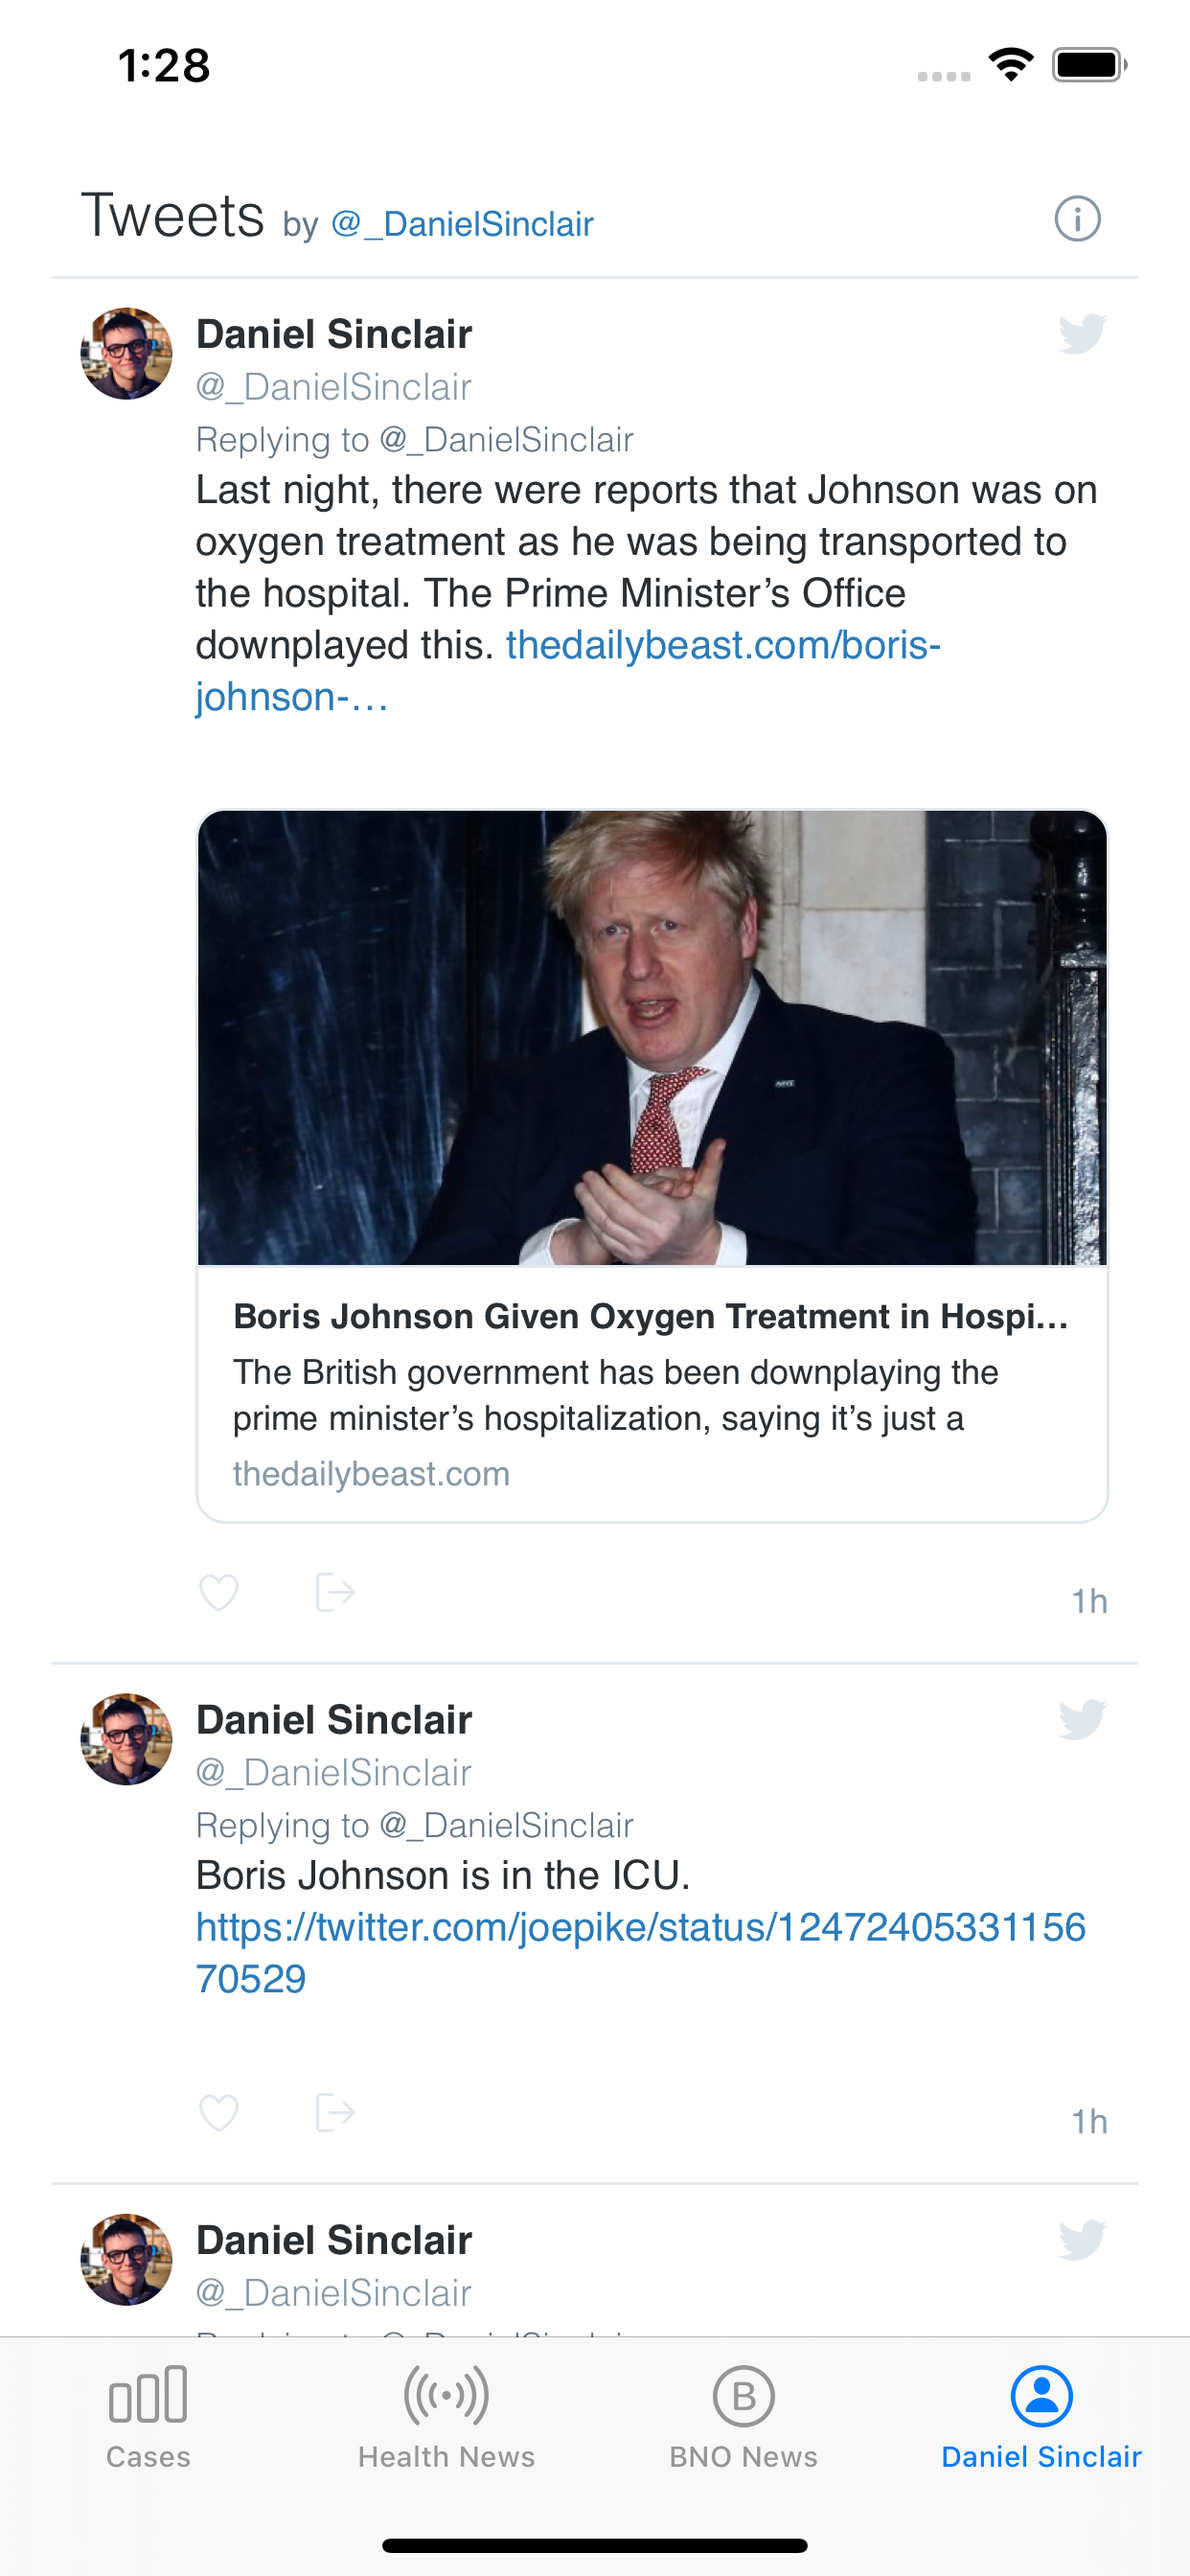
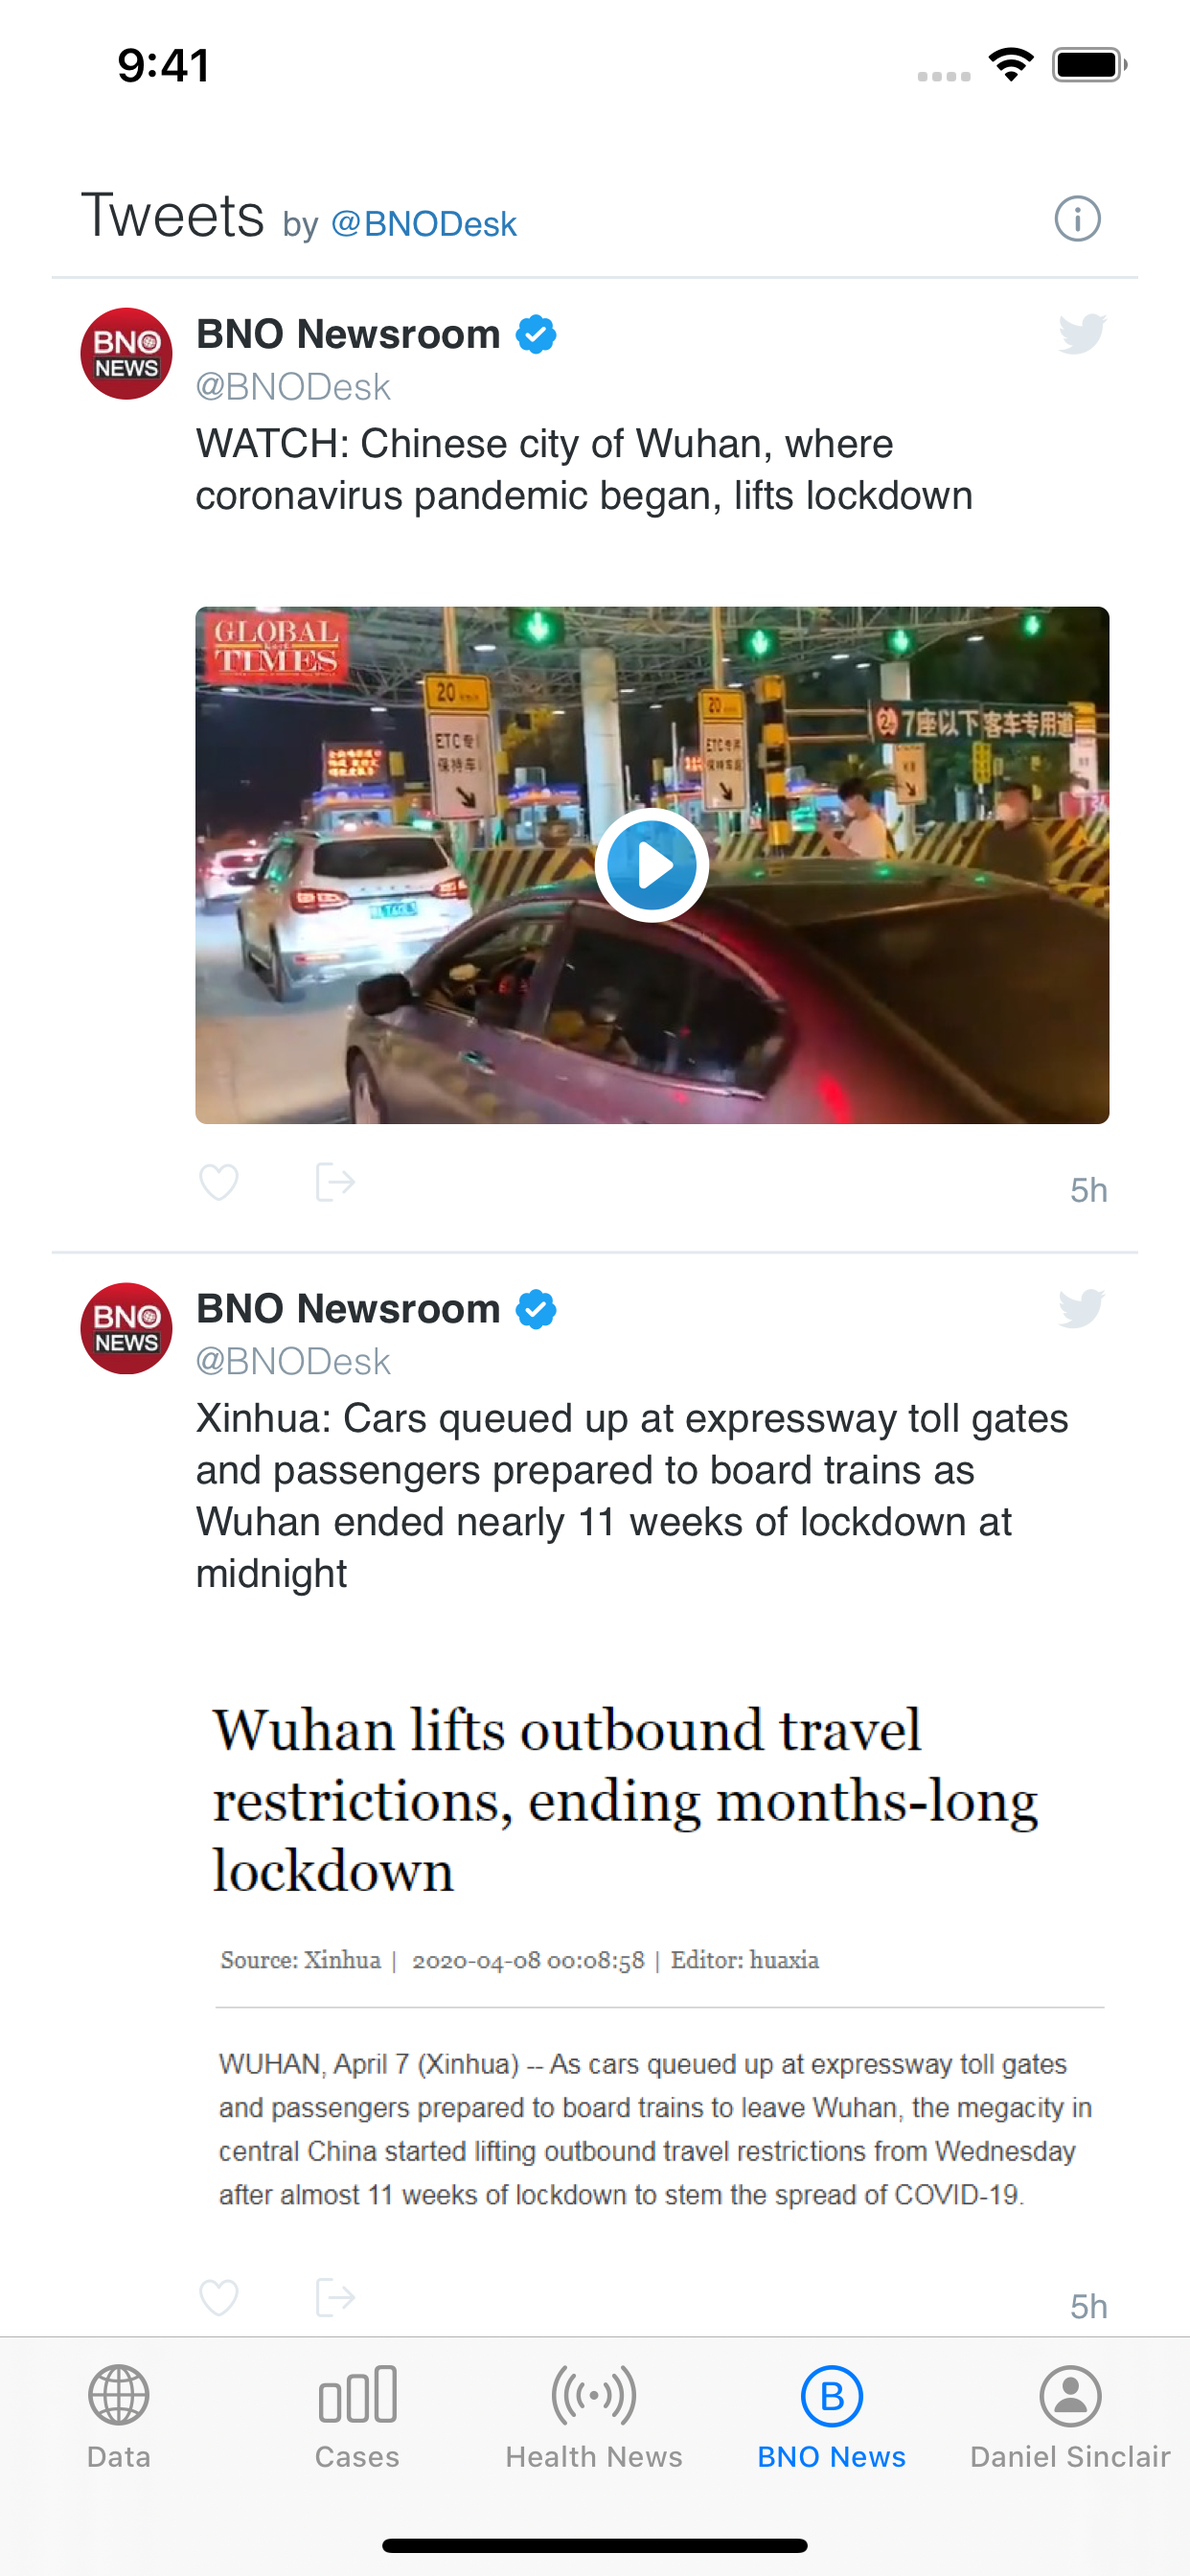
show more data from websites

diff --git a/Xcode/covid19/TweetsViewController.swift b/Xcode/covid19/TweetsViewController.swift
@@ -10,13 +10,20 @@ import UIKit
 import WebKit
 import SafariServices
 
-class TweetsViewController: UIViewController, WKNavigationDelegate {
+class TweetsViewController: UIViewController {
+    // UI
     private let webView = WKWebView()
 
     private let refreshControl = UIRefreshControl()
 
+    // Data
     var user = ""
+
     var webContent = ""
+
+    required init?(coder: NSCoder) {
+        fatalError("init(coder:) has not been implemented")
+    }
 
     override init(nibName nibNameOrNil: String?, bundle nibBundleOrNil: Bundle?) {
         super.init(nibName: nibNameOrNil, bundle: nibBundleOrNil)
@@ -25,6 +32,12 @@ class TweetsViewController: UIViewController, WKNavigationDelegate {
     init(tab: Tab) {
         super.init(nibName: nil, bundle:nil)
 
+        setup(tab)
+        configure()
+        refreshWebView(refreshControl)
+    }
+
+    private func setup(_ tab: Tab) {
         view.backgroundColor = .white
 
         title = tab.name
@@ -33,14 +46,19 @@ class TweetsViewController: UIViewController, WKNavigationDelegate {
             return
         }
 
+        user = tuser
+
         webContent = """
         <meta name='viewport' content='initial-scale=1.0'/>
         <a class="twitter-timeline" href="https://twitter.com/\(tuser)"></a>
         <script async src="https://platform.twitter.com/widgets.js" charset="utf-8"></script>
         """
 
-        user = tuser
+        webView.navigationDelegate = self
+    }
 
+    private func configure() {
+        // Web view
         self.view.addSubview(webView)
         webView.translatesAutoresizingMaskIntoConstraints = false
         NSLayoutConstraint.activate([
@@ -50,42 +68,36 @@ class TweetsViewController: UIViewController, WKNavigationDelegate {
             webView.bottomAnchor.constraint(equalTo: self.view.safeAreaLayoutGuide.bottomAnchor)
         ])
 
-        webView.navigationDelegate = self
-
-        refreshWebView(refreshControl)
-
-        let refreshControl = UIRefreshControl()
+        // Refresh control
         refreshControl.addTarget(self, action: #selector(refreshWebView(_:)), for: UIControl.Event.valueChanged)
         webView.scrollView.addSubview(refreshControl)
         webView.scrollView.bounces = true
-    }
-
-    required init?(coder: NSCoder) {
-        fatalError("init(coder:) has not been implemented")
     }
 
     @objc private func refreshWebView(_ sender: UIRefreshControl) {
         webView.loadHTMLString(webContent, baseURL: nil)
         sender.endRefreshing()
     }
+}
 
+extension TweetsViewController: WKNavigationDelegate {
     /// Credits: https://medium.com/@musmein/rendering-embedded-tweets-and-timelines-within-webview-in-ios-e48920754add
     func webView(_ webView: WKWebView, decidePolicyFor navigationAction: WKNavigationAction, decisionHandler: @escaping (WKNavigationActionPolicy) -> Void) {
-      if navigationAction.navigationType == .linkActivated  {
-        if let url = navigationAction.request.url {
-            let sfvc = SFSafariViewController.init(url: url)
-            self.present(sfvc, animated: true, completion: nil)
+        if navigationAction.navigationType == .linkActivated  {
+            if let url = navigationAction.request.url {
+                let sfvc = SFSafariViewController.init(url: url)
+                self.present(sfvc, animated: true, completion: nil)
 
-//          print(url)
-//          print("Redirected to browser. No need to open it locally")
-          decisionHandler(.cancel)
+                //          print(url)
+                //          print("Redirected to browser. No need to open it locally")
+                decisionHandler(.cancel)
+            } else {
+                //          print("Open it locally")
+                decisionHandler(.allow)
+            }
         } else {
-//          print("Open it locally")
-          decisionHandler(.allow)
-          }
-      } else {
-//          print("not a user click")
-          decisionHandler(.allow)
-         }
+            //          print("not a user click")
+            decisionHandler(.allow)
+        }
     }
 }

diff --git a/Xcode/covid19/WebViewController.swift b/Xcode/covid19/WebViewController.swift
@@ -1,0 +1,118 @@
+//
+//  WebViewController.swift
+//  covid19
+//
+//  Created by Daniel on 4/7/20.
+//  Copyright © 2020 dk. All rights reserved.
+//
+
+import UIKit
+import WebKit
+
+class WebViewController: UIViewController {
+    // UI
+    private var webview = WKWebView()
+
+    private var spinner = UIActivityIndicatorView.init(style: .medium)
+
+    // Data
+    private var websites = [
+        Website.init(domain: "viruscovid.tech",
+                     urlString: "https://viruscovid.tech"),
+        Website.init(domain: "ncov2019.live",
+                     urlString: "https://ncov2019.live")
+    ]
+
+    override func viewDidLoad() {
+        super.viewDidLoad()
+
+        setup()
+        configure()
+        loadData()
+    }
+
+    private func setup() {
+        title = Constant.web.name
+
+        webview.addObserver(self, forKeyPath: #keyPath(WKWebView.estimatedProgress), options: .new, context: nil)
+    }
+
+    private func configure() {
+        // Web view
+        view = webview
+
+        // Filter button
+        let image = UIImage(systemName: "list.dash")
+        let button = UIBarButtonItem.init(image: image, style: .plain, target: self, action: #selector(filter))
+        navigationItem.rightBarButtonItem = button
+
+        // Spinner
+        spinner.translatesAutoresizingMaskIntoConstraints = false
+        view.addSubview(spinner)
+
+        spinner.centerXAnchor.constraint(equalTo: view.centerXAnchor).isActive = true
+        spinner.centerYAnchor.constraint(equalTo: view.centerYAnchor).isActive = true
+    }
+
+    @objc private func filter() {
+        let alertController = UIAlertController.init(title: nil, message: nil, preferredStyle: .actionSheet)
+
+        for w in websites {
+            let action = UIAlertAction.init(title: w.domain , style: .default, handler: openWebsite)
+            alertController.addAction(action)
+        }
+
+        alertController.addAction(UIAlertAction(title: "Cancel", style: .cancel))
+
+        self.present(alertController, animated: true, completion: nil)
+    }
+
+    private func openWebsite(_ action: UIAlertAction) {
+        let items = websites.filter { $0.domain == action.title }
+            if let w: Website = items.first {
+            loadWebsite(w)
+            }
+    }
+
+    private func loadData() {
+        if let w = websites.first {
+            loadWebsite(w)
+        }
+    }
+
+    override func observeValue(forKeyPath keyPath: String?, of object: Any?, change: [NSKeyValueChangeKey : Any]?, context: UnsafeMutableRawPointer?) {
+        if keyPath == "estimatedProgress" {
+            if webview.estimatedProgress == 1 {
+                spinner.stopAnimating()
+            }
+        }
+    }
+
+    private func loadWebsite(_ website: Website) {
+        guard let url = URL.init(string: website.urlString) else { return }
+        spinner.startAnimating()
+
+        webview.evaluateJavaScript("document.body.remove()")
+
+        let r = URLRequest.init(url: url)
+        webview.load(r)
+    }
+
+    func createLayout() -> UICollectionViewLayout {
+        let itemSize = NSCollectionLayoutSize(widthDimension: .fractionalWidth(1.0),
+                                              heightDimension: .fractionalHeight(1))
+        let item = NSCollectionLayoutItem(layoutSize: itemSize)
+        item.contentInsets = NSDirectionalEdgeInsets(top: 0, leading: 10, bottom: 10, trailing: 10)
+
+        let groupSize = NSCollectionLayoutSize(widthDimension: .fractionalWidth(1),
+                                               heightDimension: .absolute(100))
+        let group = NSCollectionLayoutGroup.horizontal(layoutSize: groupSize, subitems: [item])
+
+        let section = NSCollectionLayoutSection(group: group)
+        section.contentInsets = NSDirectionalEdgeInsets(top: 10, leading: 0, bottom: 0, trailing: 0)
+
+        let layout = UICollectionViewCompositionalLayout(section: section)
+
+        return layout
+    }
+}

diff --git a/Xcode/covid19/DataViewController.swift b/Xcode/covid19/DataViewController.swift
@@ -48,6 +48,7 @@ class DataViewController: UIViewController {
 
     private func setup() {
         title = Constant.data.name
+
         collectionView = UICollectionView(frame: view.bounds, collectionViewLayout: createLayout())
         collectionView?.register(BarCell.self, forCellWithReuseIdentifier: BarCell.cellId)
         collectionView?.register(DataView.self, forSupplementaryViewOfKind: DataViewController.sectionHeaderElementKind, withReuseIdentifier: DataView.viewId)
@@ -134,7 +135,7 @@ extension DataViewController {
 
         let section = NSCollectionLayoutSection(group: group)
         section.interGroupSpacing = 5
-        section.contentInsets = NSDirectionalEdgeInsets(top: 0, leading: 10, bottom: 30, trailing: 10)
+        section.contentInsets = NSDirectionalEdgeInsets(top: 0, leading: 30, bottom: 30, trailing: 10)
 
         let headerFooterSize = NSCollectionLayoutSize(widthDimension: .fractionalWidth(1.0),
                                                       heightDimension: .estimated(120))
@@ -187,15 +188,24 @@ private extension Country {
 
         let titleAttribute: [NSAttributedString.Key: Any] = [
             .paragraphStyle: paragraphStyle,
-            .font: UIFont.monospacedSystemFont(ofSize: 80, weight: .regular)
+            .font: UIFont.monospacedSystemFont(ofSize: 65, weight: .regular)
         ]
 
-        return NSMutableAttributedString.init(string: "\(latest.confirmed)", attributes: titleAttribute)
+        let numberFormatter = NumberFormatter()
+        numberFormatter.numberStyle = .decimal
+
+        let num = NSNumber.init(value: latest.confirmed)
+
+        if let s = numberFormatter.string(from: num) {
+            return NSAttributedString.init(string: s, attributes: titleAttribute)
+        }
+
+        return NSAttributedString()
     }
 }
 
 extension Country {
-    static let lastNumDays = 27
+    static let lastNumDays = 24
 
     func count() -> Int {
         Country.lastNumDays

diff --git a/Xcode/covid19/SceneDelegate.swift b/Xcode/covid19/SceneDelegate.swift
@@ -24,13 +24,22 @@ class SceneDelegate: UIResponder, UIWindowSceneDelegate {
         window = UIWindow(frame: windowScene.coordinateSpace.bounds)
         window?.windowScene = windowScene
 
+        let webController = WebViewController()
+        webController.tabBarItem.image = UIImage(systemName: Constant.web.imageSystemName)
+        webController.tabBarItem.title = Constant.web.name
+        let webNavigationController = UINavigationController(rootViewController: webController)
+        webNavigationController.navigationBar.prefersLargeTitles = true
+
         let dataController = DataViewController()
         dataController.tabBarItem.image = UIImage(systemName: Constant.data.imageSystemName)
+        dataController.tabBarItem.title = Constant.data.name
         let dataNavigationController = UINavigationController(rootViewController: dataController)
+        dataNavigationController.navigationBar.prefersLargeTitles = true
 
         let newsController = NewsViewController(tab: Constant.news)
         newsController.tabBarItem.image = UIImage(systemName: Constant.news.imageSystemName)
         let newsNavigationController = UINavigationController(rootViewController: newsController)
+        newsNavigationController.navigationBar.prefersLargeTitles = true
 
         let bnoDeskTweetsController = TweetsViewController(tab: Constant.bno)
         bnoDeskTweetsController.tabBarItem.image = UIImage(systemName: Constant.bno.imageSystemName)
@@ -40,6 +49,7 @@ class SceneDelegate: UIResponder, UIWindowSceneDelegate {
 
         let tabController = UITabBarController()
         tabController.viewControllers = [
+            webNavigationController,
             dataNavigationController,
             newsNavigationController,
             bnoDeskTweetsController,

diff --git a/Xcode/covid19/NewsViewController.swift b/Xcode/covid19/NewsViewController.swift
@@ -65,7 +65,8 @@ class NewsViewController: UIViewController {
                                               heightDimension: .fractionalHeight(1.0))
         let item = NSCollectionLayoutItem(layoutSize: itemSize)
         let inset: CGFloat = 15
-        item.contentInsets = NSDirectionalEdgeInsets(top: inset, leading: inset, bottom: 0, trailing: inset)
+        let sideInset: CGFloat = 30
+        item.contentInsets = NSDirectionalEdgeInsets(top: inset, leading: sideInset, bottom: 0, trailing: sideInset)
 
         let groupSize = NSCollectionLayoutSize(widthDimension: .fractionalWidth(1.0),
                                                heightDimension: .absolute(250))

diff --git a/Xcode/covid19/Constant.swift b/Xcode/covid19/Constant.swift
@@ -9,6 +9,7 @@
 import Foundation
 
 struct Constant {
+    static let web = Tab.init(name: "Data", imageSystemName: "globe")
     static let data = Tab.init(name: "Cases", imageSystemName: "chart.bar")
     static let news = Tab.init(name: "Health News", imageSystemName: "dot.radiowaves.left.and.right")
     static let bno = Tab.init(name: "BNO News", imageSystemName: "b.circle", twitterUser: "BNODesk")
@@ -19,4 +20,9 @@ struct Tab {
     var name: String
     var imageSystemName: String
     var twitterUser: String?
+}
+
+struct Website {
+    var domain: String
+    var urlString: String
 }

diff --git a/README.md b/README.md
@@ -1,10 +1,10 @@
 ## covid19.swift
 
-Quick iOS app to show some COVID-19 / health data, news and tweets :zap:
+Small iOS app to show some COVID-19 / health data, news and tweets :zap:
 
 <img src=Images/0.png height=400> <img src=Images/1.png height=400> <img src=Images/2.png height=400>
 
-<img src=Images/3.png height=400> <img src=Images/4.png height=400>
+<img src=Images/3.png height=400> <img src=Images/4.png height=400> <img src=Images/5.png height=400>
 
 ## Requirements
 
@@ -16,6 +16,8 @@ iOS 13 for [Collection View Compositional Layouts](https://developer.apple.com/d
 - [News API](https://newsapi.org)
 - [BNO Newsroom](https://twitter.com/BNODesk)
 - [Daniel Sinclair](https://twitter.com/_DanielSinclair)
+- [viruscovid.tech](https://viruscovid.tech)
+- [ncov2019.live](https://ncov2019.live)
 
 ## Contact
 
